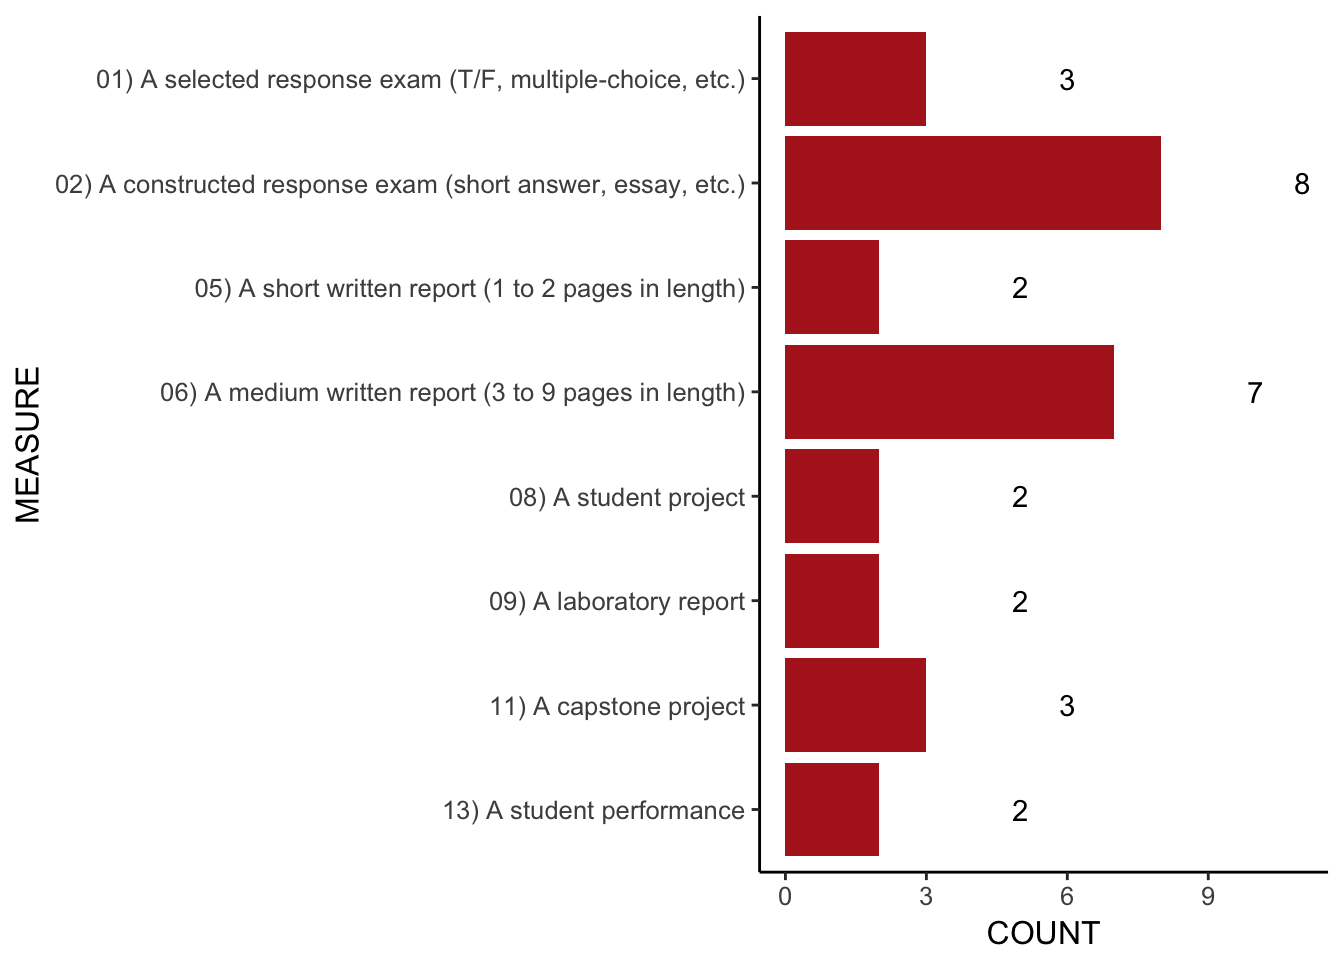
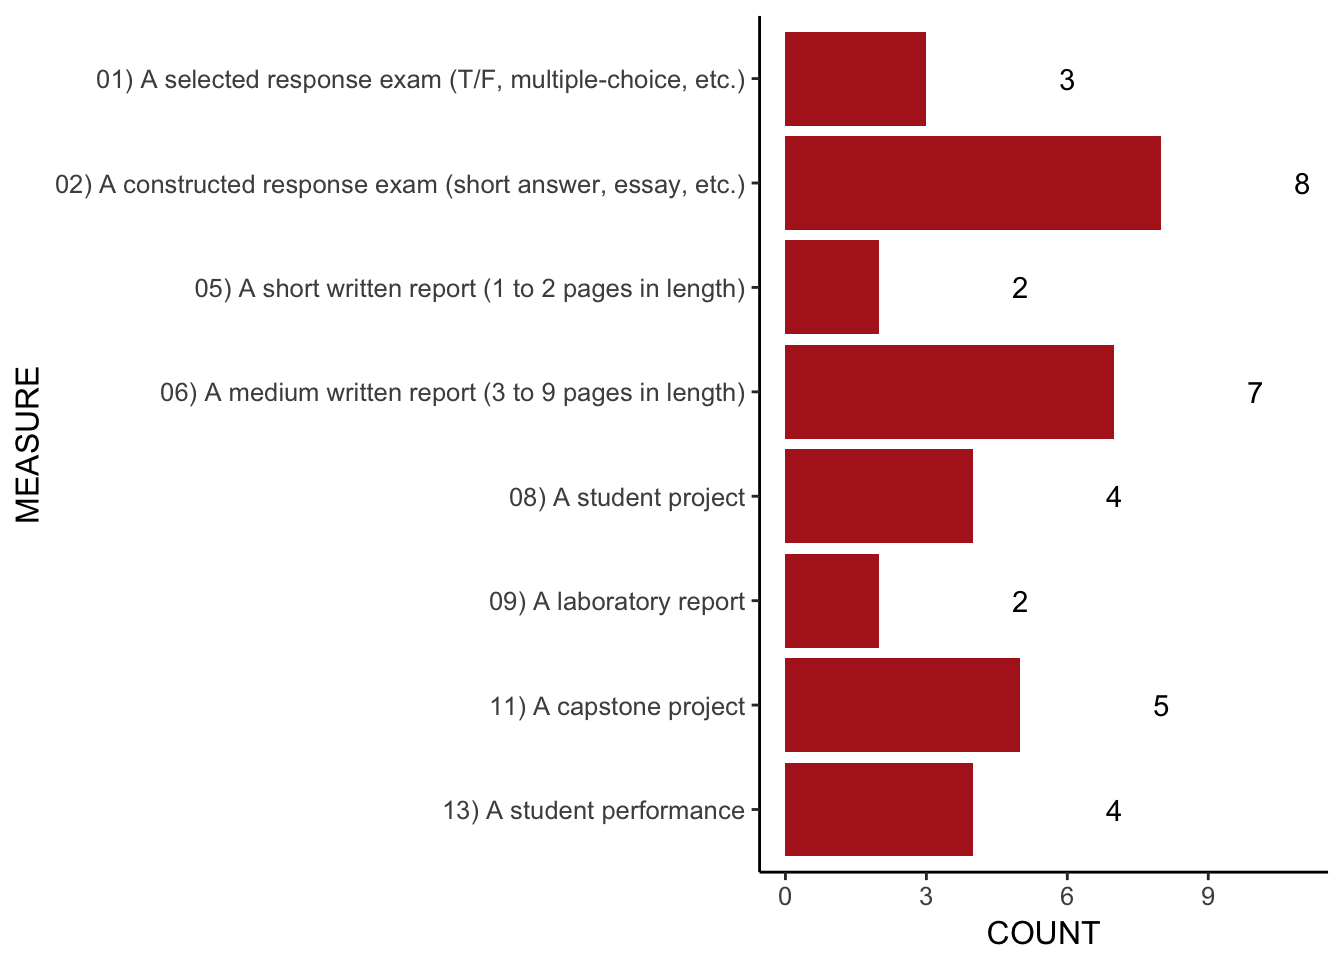
Add instapaper and rebuild

diff --git a/docs/results.html b/docs/results.html
@@ -102,7 +102,7 @@
             <section class="normal" id="section-">
 <div id="results" class="section level1 unnumbered">
 <h1>Results and Discussion</h1>
-<p>A total of 29 registrations have been completed as of January 30, 2018. This includes a total of 25 different courses. The distribution of the registrations between the eight core competencies is shown in figure <a href="results.html#fig:competency">1</a>.</p>
+<p>A total of 35 registrations have been completed as of February 02, 2018. This includes a total of 31 different courses. The distribution of the registrations between the eight core competencies is shown in figure <a href="results.html#fig:competency">1</a>.</p>
 <div class="figure"><span id="fig:competency"></span>
 <img src="Report-1801_files/figure-html/competency-1.png" alt="Distribution of course registrations by core competency." width="672" />
 <p class="caption">
@@ -114,7 +114,7 @@ Figure 1: Distribution of course registrations by core competency.
 </li>
 <li>A total of NA student products were registered (NA%).<br />
 </li>
-<li>A total of 7 student performances were registered (24.1%).</li>
+<li>A total of 11 student performances were registered (31.4%).</li>
 </ul>
 <div class="figure"><span id="fig:measure"></span>
 <img src="Report-1801_files/figure-html/measure-1.png" alt="Distribution of course registrations by standardized measure." width="672" />
@@ -177,7 +177,8 @@ gitbook.start({
 "instapper": false,
 "vk": false,
 "all": ["facebook", "google", "twitter", "weibo", "instapaper"],
-"linkedin": true
+"linkedin": true,
+"instapaper": true
 },
 "fontsettings": {
 "theme": "white",

diff --git a/docs/index.html b/docs/index.html
@@ -168,7 +168,8 @@ gitbook.start({
 "instapper": false,
 "vk": false,
 "all": ["facebook", "google", "twitter", "weibo", "instapaper"],
-"linkedin": true
+"linkedin": true,
+"instapaper": true
 },
 "fontsettings": {
 "theme": "white",

diff --git a/docs/introduction.html b/docs/introduction.html
@@ -151,7 +151,8 @@ gitbook.start({
 "instapper": false,
 "vk": false,
 "all": ["facebook", "google", "twitter", "weibo", "instapaper"],
-"linkedin": true
+"linkedin": true,
+"instapaper": true
 },
 "fontsettings": {
 "theme": "white",

diff --git a/docs/methods.html b/docs/methods.html
@@ -191,7 +191,8 @@ gitbook.start({
 "instapper": false,
 "vk": false,
 "all": ["facebook", "google", "twitter", "weibo", "instapaper"],
-"linkedin": true
+"linkedin": true,
+"instapaper": true
 },
 "fontsettings": {
 "theme": "white",

diff --git a/docs/references.html b/docs/references.html
@@ -172,7 +172,8 @@ gitbook.start({
 "instapper": false,
 "vk": false,
 "all": ["facebook", "google", "twitter", "weibo", "instapaper"],
-"linkedin": true
+"linkedin": true,
+"instapaper": true
 },
 "fontsettings": {
 "theme": "white",
